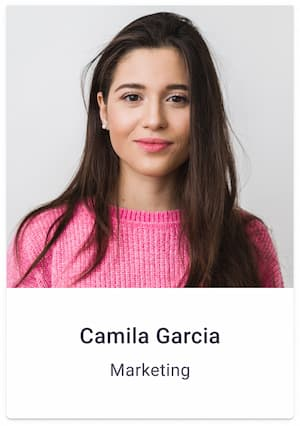
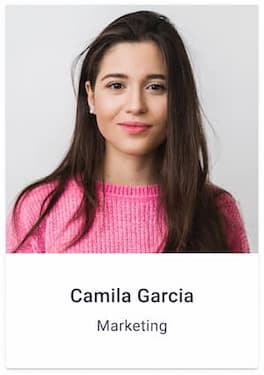
commit message

diff --git a/index.html b/index.html
@@ -20,7 +20,7 @@
         <address>
             <ul>
                 <li><a href="mailto:info@devstudio.com">info@devstudio.com</a></li>
-                <li><a href="tel:+110001111111">+11(000)111-11-11</a></li>
+                <li><a href="tel:+110001111111">+11 (000) 111-11-11</a></li>
             </ul>
         </address>
     </header>
@@ -33,11 +33,13 @@
             <button type="button"> Order Service</button>
         </section>
         <section>
+            <h2>
+        Daniel
+            </h2>
         <ul>
         <li>
             <h3>Strategy</h3>
-            <p> Our goal is to identifybthe Business
-                problem to walk away with the perfect and creative solution.
+            <p> Our goal is to identify the business problem to walk away with the perfect and creative solution.
             </p>
         </li>
         <li>
@@ -60,29 +62,29 @@
         <ul>
         <li>
              <img src="./images/MarkGuerrero.jpg" alt="Mark Guerrero" 
-             width="300" 
-             height="426" />
+             width="264" 
+             height="375" />
                 <h3>Mark Guerrero</h3>
                 <p>Product Designer</p> 
         </li>
         <li>
             <img src="./images/TomFord.jpg" alt="Tom Ford" 
-            width="300" 
-            height="426" />
+            width="264" 
+            height="375" />
         <h3>Tom Ford</h3>
         <p>Frontend Developer</p>
         </li>
         <li>
             <img src="./images/CamilaGarcia.jpg" alt="Camila Garcia"
-             width="300"
-             height="426" />
+             width="264"
+             height="375" />
             <h3>Camila Garcia</h3>
             <p>Marketing</p>
         </li>
         <li>
             <img src="./images/DanielWilson.jpg" alt="Daniel Wilson" 
-                 width="300" 
-                height="426" />
+                 width="264" 
+                height="375" />
         <h3>Daniel Wilson</h3>
         <p>UI Designer</p>
         </li>
